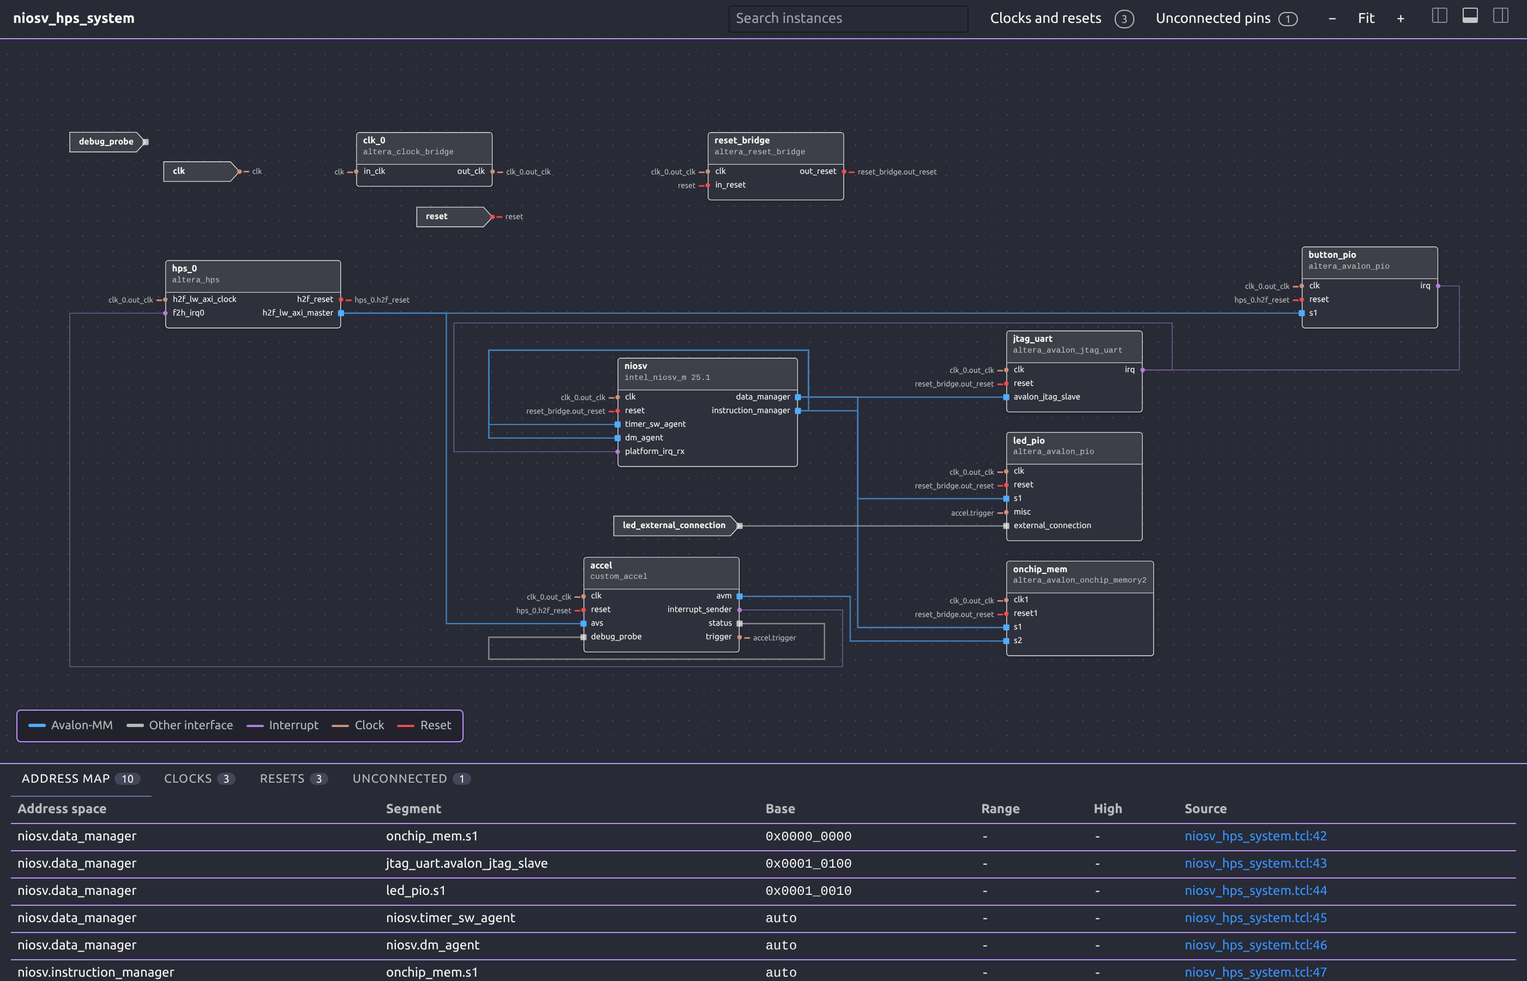
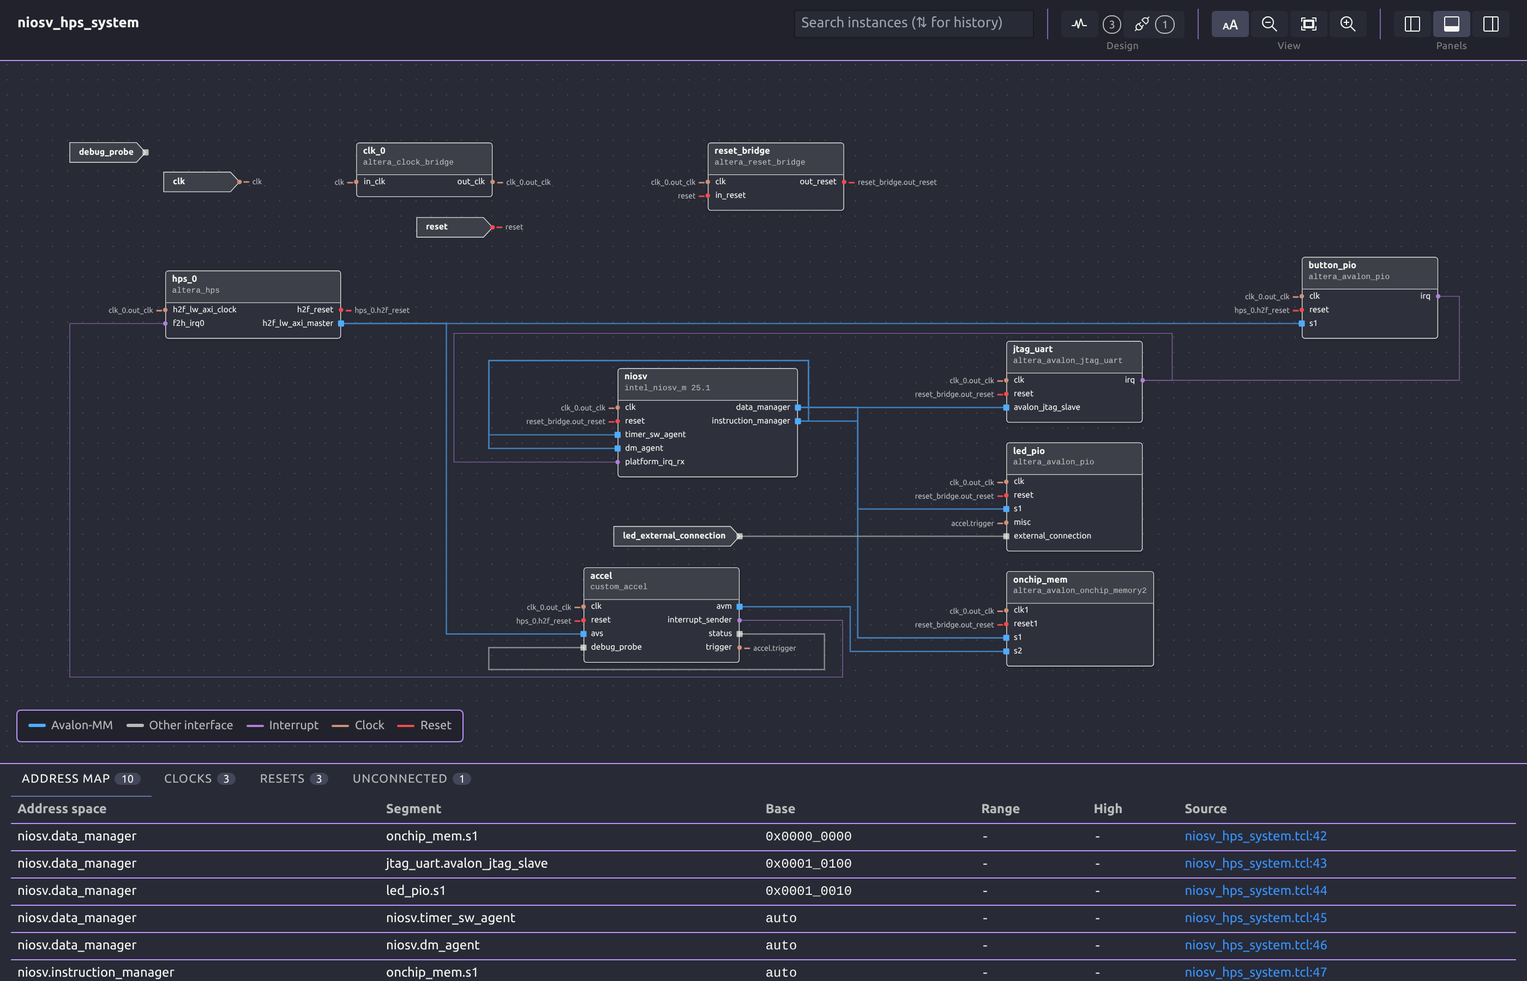
fix(system-viewer): address review nits on the toolbar and search history
- Search: the F3/Ctrl+F window listener is no longer re-attached on every
  render (stable step callback), and any query change not made by
  browsing ends browsing, so typing away and back no longer resumes the
  old history position. New tests cover F3 and Escape remembering,
  modifier arrows and preventDefault only when the query changes.
- Simplify zoomed out: names break after underscores (<wbr>) instead of
  mid-word, and port tag text and clock frequencies are hidden like the
  other small text.
- Toolbar: group captions are hidden from assistive technology (the
  group keeps its aria-label); the groups test covers Panels.
- Docs: system viewer screenshots regenerated with the new toolbar;
  architecture and changelog wording; toolbar, search history and
  full-width entries link #264.

diff --git a/src/test/suite/webview/systemDiagram/SystemDiagramApp.test.tsx b/src/test/suite/webview/systemDiagram/SystemDiagramApp.test.tsx
@@ -519,7 +519,7 @@ describe('SystemDiagramApp', () => {
     expect(toggle).not.toHaveClass('canvas-view-toggle--active');
   });
 
-  it('groups the toolbar buttons into Design and View', async () => {
+  it('groups the toolbar buttons into Design, View and Panels', async () => {
     await renderWithGraph();
     const view = within(screen.getByRole('group', { name: 'View' }));
     for (const name of ['Simplify zoomed out', 'Zoom out', 'Fit', 'Zoom in']) {
@@ -529,6 +529,10 @@ describe('SystemDiagramApp', () => {
     expect(design.getByRole('button', { name: 'Clocks and resets' })).toBeInTheDocument();
     expect(design.getByRole('button', { name: /^Unconnected pins/ })).toBeInTheDocument();
     expect(design.getByRole('button', { name: /^Open the Clocks tab: / })).toBeInTheDocument();
+    const panels = within(screen.getByRole('group', { name: 'Panels' }));
+    for (const name of ['Toggle Outline', 'Toggle Bottom Panel', 'Toggle Details']) {
+      expect(panels.getByRole('button', { name })).toBeInTheDocument();
+    }
   });
 
   it('posts revealSource from a line link', async () => {
@@ -793,6 +797,67 @@ describe('SystemDiagramApp', () => {
       searchBox().focus();
       press('ArrowUp');
       expect(searchBox().value).toBe('axi');
+    });
+
+    it('ends browsing when the query is typed away and back to the browsed text', async () => {
+      await renderWithGraph();
+      await settle();
+      type('axi');
+      press('Enter');
+      type('fifo');
+      press('Enter');
+      type('');
+      press('ArrowUp');
+      press('ArrowUp');
+      expect(searchBox().value).toBe('axi');
+      type('axix');
+      type('axi');
+      press('ArrowUp');
+      expect(searchBox().value).toBe('fifo');
+    });
+
+    it('remembers a query when stepping with F3', async () => {
+      await renderWithGraph();
+      await settle();
+      type('axi');
+      fireEvent.keyDown(window, { key: 'F3' });
+      type('');
+      searchBox().focus();
+      press('ArrowUp');
+      expect(searchBox().value).toBe('axi');
+    });
+
+    it('remembers the query that Escape clears', async () => {
+      await renderWithGraph();
+      await settle();
+      searchBox().focus();
+      type('axi');
+      press('Escape');
+      expect(searchBox().value).toBe('');
+      searchBox().focus();
+      press('ArrowUp');
+      expect(searchBox().value).toBe('axi');
+    });
+
+    it('does not browse on ArrowUp with a modifier', async () => {
+      await renderWithGraph();
+      await settle();
+      type('axi');
+      press('Enter');
+      type('');
+      fireEvent.keyDown(searchBox(), { key: 'ArrowUp', altKey: true });
+      expect(searchBox().value).toBe('');
+    });
+
+    it('prevents a browsing ArrowUp but not one at the oldest entry', async () => {
+      await renderWithGraph();
+      await settle();
+      type('axi');
+      press('Enter');
+      type('');
+      expect(fireEvent.keyDown(searchBox(), { key: 'ArrowUp' })).toBe(false);
+      expect(searchBox().value).toBe('axi');
+      expect(fireEvent.keyDown(searchBox(), { key: 'ArrowUp' })).toBe(true);
     });
 
     it('keeps the accessible name and shows the history placeholder', async () => {

diff --git a/src/webview/systemDiagram/WorkbenchLayout.tsx b/src/webview/systemDiagram/WorkbenchLayout.tsx
@@ -57,11 +57,14 @@ export function WorkbenchLayout({
   const view = useIsolation(graph, nav);
   const { isolation } = view;
   const search = useSearchStepper(graph, query, nav.selection, view.revealMatch);
-  const history = useSearchHistory(query, setQuery);
-  const stepSearch = (direction: 1 | -1) => {
-    history.remember();
-    search.step(direction);
-  };
+  const { remember, browse } = useSearchHistory(query, setQuery);
+  const stepSearch = useCallback(
+    (direction: 1 | -1) => {
+      remember();
+      search.step(direction);
+    },
+    [remember, search.step]
+  );
   const searchInputRef = useRef<HTMLInputElement>(null);
   useFindShortcuts({
     inputRef: searchInputRef,
@@ -163,8 +166,8 @@ export function WorkbenchLayout({
         onNavigate={nav.navigate}
         onQueryChange={setQuery}
         onSearchStep={stepSearch}
-        onSearchHistory={history.browse}
-        onSearchBlur={history.remember}
+        onSearchHistory={browse}
+        onSearchBlur={remember}
         onClocksChange={setClocksOn}
         onOpenClocksTab={() => openBottomTab('clocks')}
         onReviewUnconnectedChange={(on) => {

diff --git a/src/test/suite/webview/systemDiagram/NodeHeader.test.tsx b/src/test/suite/webview/systemDiagram/NodeHeader.test.tsx
@@ -1,0 +1,29 @@
+import React from 'react';
+import { render } from '@testing-library/react';
+import { nameParts, NodeHeader } from '../../../../webview/systemDiagram/NodeHeader';
+import type { SystemInstance } from '../../../../domain/systemGraph';
+
+describe('nameParts', () => {
+  it('ends each part after an underscore', () => {
+    expect(nameParts('pulse_gen_0')).toEqual(['pulse_', 'gen_', '0']);
+  });
+
+  it('keeps a name without underscores whole', () => {
+    expect(nameParts('fifo')).toEqual(['fifo']);
+  });
+});
+
+describe('NodeHeader name', () => {
+  it('keeps the text and offers a break after each underscore', () => {
+    const instance = {
+      name: 'pulse_gen_0',
+      path: '/pulse_gen_0',
+      kind: 'leaf',
+    } as unknown as SystemInstance;
+    const { container } = render(<NodeHeader instance={instance} cellCount={0} expanded={false} />);
+    const name = container.querySelector('.sd-node-name')!;
+    expect(name.textContent).toBe('pulse_gen_0');
+    expect(name).toHaveAttribute('title', 'pulse_gen_0');
+    expect(name.querySelectorAll('wbr')).toHaveLength(2);
+  });
+});

diff --git a/src/webview/systemDiagram/NodeHeader.tsx b/src/webview/systemDiagram/NodeHeader.tsx
@@ -5,6 +5,11 @@ import { HEADER_HEIGHT } from './layout/elkLayout';
 import { instanceSubtitle } from './model';
 import type { NodeReview } from './unconnectedPins';
 
+/** A name as text parts that each end after an underscore, to put a `<wbr />` after each. */
+export function nameParts(name: string): string[] {
+  return name.split(/(?<=_)/);
+}
+
 interface ExpandToggleProps {
   instance: SystemInstance;
   expanded: boolean;
@@ -70,7 +75,12 @@ export function NodeHeader({
           <ExpandToggle instance={instance} expanded={expanded} onToggleExpand={onToggleExpand} />
         )}
         <span className="sd-node-name" title={instance.name}>
-          {instance.name}
+          {nameParts(instance.name).map((part, index) => (
+            <React.Fragment key={index}>
+              {index > 0 && <wbr />}
+              {part}
+            </React.Fragment>
+          ))}
         </span>
         {review && review.all > 0 ? (
           <span

diff --git a/src/webview/systemDiagram/hooks/useSearchHistory.ts b/src/webview/systemDiagram/hooks/useSearchHistory.ts
@@ -1,4 +1,4 @@
-import { useCallback, useRef, useState } from 'react';
+import { useCallback, useEffect, useRef, useState } from 'react';
 import { browseHistory, rememberQuery, type HistoryCursor } from '../searchHistory';
 
 /**
@@ -14,6 +14,14 @@ export function useSearchHistory(
   const [history, setHistory] = useState<readonly string[]>([]);
   const cursor = useRef<HistoryCursor | null>(null);
   const lastSet = useRef<string | null>(null);
+
+  // Any change not made by browsing (typing, Ctrl+F, Escape) ends browsing.
+  useEffect(() => {
+    if (query !== lastSet.current) {
+      cursor.current = null;
+      lastSet.current = null;
+    }
+  }, [query]);
 
   const remember = useCallback(() => {
     setHistory((previous) => rememberQuery(previous, query));

diff --git a/src/webview/systemDiagram/systemDiagram.css b/src/webview/systemDiagram/systemDiagram.css
@@ -1018,6 +1018,8 @@ input:focus-visible {
 /* Auto detail: far out, pin text goes and block names grow. Drawing only, no layout.
    The block body is empty without pin labels, so a name wraps over it instead of being cut short. */
 [data-far='true'] .sd-pin-label,
+[data-far='true'] .sd-pin-freq,
+[data-far='true'] .sd-port-label,
 [data-far='true'] .sd-node-subtitle,
 [data-far='true'] .sd-badge-text {
   visibility: hidden;
@@ -1035,7 +1037,7 @@ input:focus-visible {
   overflow: visible;
   text-overflow: clip;
   white-space: normal;
-  overflow-wrap: anywhere;
+  overflow-wrap: break-word;
   font-size: calc(12px * var(--sd-name-scale, 1));
   line-height: 1.1;
 }

diff --git a/src/webview/systemDiagram/DiagramCanvas.tsx b/src/webview/systemDiagram/DiagramCanvas.tsx
@@ -7,10 +7,10 @@ import {
   type Node,
   type NodeTypes,
 } from '@xyflow/react';
+import { AutoDetail } from './AutoDetail';
 import { BoundaryNode } from './BoundaryNode';
 import { DiagramContextMenu, type ContextMenuItem } from './DiagramContextMenu';
 import { DiagramLegend } from './DiagramLegend';
-import { AutoDetail } from './AutoDetail';
 import { ElkEdge } from './ElkEdge';
 import { FrameNode } from './FrameNode';
 import { InstanceNode } from './InstanceNode';

diff --git a/src/webview/shared/components/Toolbar.tsx b/src/webview/shared/components/Toolbar.tsx
@@ -15,6 +15,7 @@ export const ToolbarGroup: React.FC<ToolbarGroupProps> = ({ label, children }) =
       {children}
     </div>
     <span
+      aria-hidden="true"
       style={{
         fontSize: '9px',
         opacity: 0.45,

diff --git a/docs/contributing/changelog.md b/docs/contributing/changelog.md
@@ -16,9 +16,9 @@ entry to the release notes.
 
 ### Added
 
-- **Auto detail in the system viewer.** With the Simplify zoomed out toolbar toggle on (the default), zooming out below 0.42 hides pin labels, block subtitles and badge text and enlarges block names by the inverse zoom, at most three times. It only changes what is drawn, so blocks never move. ([#256](https://github.com/bleviet/ipcraft-vscode/issues/256))
+- **Auto detail in the system viewer.** With the Simplify zoomed out toolbar toggle on (the default), zooming out below 0.42 hides pin labels, port labels, clock frequencies, block subtitles and badge text and enlarges block names by the inverse zoom, at most three times. It only changes what is drawn, so blocks never move. ([#256](https://github.com/bleviet/ipcraft-vscode/issues/256))
 - **Find keys in the system viewer.** As in the VS Code text editor, Ctrl+F (Cmd+F on macOS) goes to Search instances with its text selected, filled in with the name of the selected block, and F3 or Shift+F3 goes to the next or previous match.
-- **Search history in the system viewer.** Up and Down in Search instances browse the remembered queries, as in the VS Code find box (placeholder `Search instances (⇅ for history)`): a query is remembered when stepping (Enter, Shift+Enter, F3, Shift+F3) or on blur, deduplicated, at most 50, for the session. Pure rules in `searchHistory.ts`, state in `hooks/useSearchHistory.ts`. ([#256](https://github.com/bleviet/ipcraft-vscode/issues/256))
+- **Search history in the system viewer.** Up and Down in Search instances browse the remembered queries, as in the VS Code find box (placeholder `Search instances (⇅ for history)`): a query is remembered when stepping (Enter, Shift+Enter, F3, Shift+F3) or on blur, deduplicated, at most 50, for the session. Pure rules in `searchHistory.ts`, state in `hooks/useSearchHistory.ts`. ([#264](https://github.com/bleviet/ipcraft-vscode/pull/264))
 - **Mouse forward button in the system viewer.** After going up with the mouse back button, the mouse forward button returns to the levels you left, one at a time. Going to another level any other way clears them, as in a browser.
 - **Clock and reset domains in the system viewer.** The Clocks and resets toggle colors the clock and reset pins by clock domain, shows the clock frequencies set in the design, and marks clock and reset domain crossings (CDC and RDC). Selecting a clock or reset net shows its whole tree in Details. New Clocks and Resets tabs list the domains, reset sources and crossings of the level on screen; clicking a row zooms to it. Clocks are identified from known AMD IP outputs and declared pin directions, never from pin names, and what cannot be determined is listed as not checked. Known outputs of common AMD IPs are now drawn on the right of their block. ([#243](https://github.com/bleviet/ipcraft-vscode/issues/243), [#248](https://github.com/bleviet/ipcraft-vscode/pull/248), [#252](https://github.com/bleviet/ipcraft-vscode/pull/252))
 - **Expand a hierarchy block in place in the system viewer.** The + button in the header of a hierarchy block (or right-click, Expand In-Place) shows its contents in a frame on the current level; the - button or Collapse folds it again. Double-click still opens the block. ([#244](https://github.com/bleviet/ipcraft-vscode/issues/244), [#247](https://github.com/bleviet/ipcraft-vscode/pull/247))
@@ -27,7 +27,7 @@ entry to the release notes.
 
 ### Changed
 
-- **System viewer toolbar in the IP core editor style.** `ToolbarGroup` and `ToolbarSeparator` move from `IpCoreToolbar.tsx` to `src/webview/shared/components/Toolbar.tsx`, where a group now has `role="group"` and its label as accessible name, and the `.canvas-view-toggle` button styles move from the IP core `canvas.css` to `shared/components/toolbar.css`. The system viewer toolbar uses them for icon-only Design (Clocks and resets `pulse`, Unconnected pins `debug-disconnect`), View (Simplify zoomed out `text-size`, `zoom-out`, Fit `screen-full`, `zoom-in`) and Panels groups; accessible names are unchanged. ([#256](https://github.com/bleviet/ipcraft-vscode/issues/256))
+- **System viewer toolbar in the IP core editor style.** `ToolbarGroup` and `ToolbarSeparator` move from `IpCoreToolbar.tsx` to `src/webview/shared/components/Toolbar.tsx`, where a group now has `role="group"` and its label as accessible name, and the `.canvas-view-toggle` button styles move from the IP core `canvas.css` to `shared/components/toolbar.css`. The system viewer toolbar uses them for icon-only Design (Clocks and resets `pulse`, Unconnected pins `debug-disconnect`), View (Simplify zoomed out `text-size`, `zoom-out`, Fit `screen-full`, `zoom-in`) and Panels groups; accessible names are unchanged. ([#264](https://github.com/bleviet/ipcraft-vscode/pull/264))
 - **Shorter wires in the system viewer.** Blocks are placed by their data and interface connections, external ports sit next to a block they connect to, and clock and reset nets are shown as net-name badges on their pins instead of wires; large designs lay out much faster. ([#261](https://github.com/bleviet/ipcraft-vscode/issues/261))
 - **Blocks stand out from the canvas in the system viewer.** Blocks have a darker outline, a tinted body and header, and a light shadow; wires are thinner and softer until selected or highlighted, and the grid dots are fainter. ([#261](https://github.com/bleviet/ipcraft-vscode/issues/261))
 - **Clocks and resets is a toggle button in the system viewer.** It colors the clock and reset pins by clock domain, and a count chip next to it opens the Clocks tab. ([#258](https://github.com/bleviet/ipcraft-vscode/issues/258), [#259](https://github.com/bleviet/ipcraft-vscode/pull/259))
@@ -37,7 +37,7 @@ entry to the release notes.
 
 ### Fixed
 
-- **The system viewer fills the editor.** `systemDiagram.css` now resets the body padding that VS Code's default webview stylesheet adds (20px each side), as `src/webview/index.css` already does for the other editors, so the toolbar and canvas reach both edges. ([#256](https://github.com/bleviet/ipcraft-vscode/issues/256))
+- **The system viewer fills the editor.** `systemDiagram.css` now resets the body padding that VS Code's default webview stylesheet adds (20px each side), as `src/webview/index.css` already does for the other editors, so the toolbar and canvas reach both edges. ([#264](https://github.com/bleviet/ipcraft-vscode/pull/264))
 - **Blocks no longer move in the system viewer** when Clocks and resets or Unconnected pins is turned on or off; the zoom and pan stay too. ([#255](https://github.com/bleviet/ipcraft-vscode/issues/255), [#257](https://github.com/bleviet/ipcraft-vscode/pull/257))
 
 ## [1.4.0] - 2026-11-06

diff --git a/docs/architecture/webview.md b/docs/architecture/webview.md
@@ -147,10 +147,10 @@ host (`graph`, `notRecognized`, or `error` messages) and sends only `ready`,
 | Layer | Owner |
 |---|---|
 | Composition root | `SystemDiagramApp.tsx`, `DiagramWorkbench.tsx`, `WorkbenchLayout.tsx` wire the toolbar, outline, canvas, details, and bottom panels |
-| Pure layout and geometry | `layout/` (elkjs graph construction, `placementEdges.ts` for which nets place the blocks, node sizing, net badges, bounds, viewport policy, hover placement, panel sizes; `expandedLayout.ts` for hierarchy blocks expanded in place) and `expansion.ts` (which levels, nodes, and selections an expansion shows), and `searchHistory.ts` (the remembered search queries and Up/Down browsing) |
+| Pure layout and geometry | `layout/` (elkjs graph construction, `placementEdges.ts` for which nets place the blocks, node sizing, net badges, bounds, viewport policy, hover placement, panel sizes; `expandedLayout.ts` for hierarchy blocks expanded in place) and `expansion.ts` (which levels, nodes, and selections an expansion shows) |
 | Clock and reset analysis | `clocks/`, pure and computed once per graph by `analyzeClocks`: `clockTypes.ts` (the result types), `frequency.ts` (parse and format), `unionFind.ts` and `levelPaths.ts` (small shared helpers), `physicalNets.ts` (nets joined across hierarchy pins, and the driver of each), `clockRules.ts` (declarative clock output, frequency, forwarding, generator, and reset rules; which Vivado IP pins are outputs is the shared `src/domain/knownIpPins.ts`, which the Vivado reader also uses to give those pins the direction `out` with source `rule`), `clockDomains.ts`, `relatedClocks.ts` (clocks of one generator), `pinClocks.ts`, `resetSources.ts`, `crossings.ts`, and the helpers each surface reads: `crossingSummary.ts` (counts and toolbar text), `crossingEdges.ts`, `domainView.ts`, `treeSelection.ts`, `edgeView.ts`, `nodeView.ts` (wire styles, pin marks, node strips), `netTree.ts` and `treeChecks.ts` (the tree rows and checks of Details), `instanceClocks.ts`, `crossingRows.ts` (the texts of its crossing rows), `viewScope.ts` (which domains, resets and crossings the Clocks and Resets tabs list for the level and expanded blocks on screen). `clockDecor.ts` merges them into one description of what the canvas adds to a layout |
-| Hooks | `hooks/` (host messages, ELK layout, per-level viewport, navigation with the expanded blocks, pin hover, panel resize; `useSearchHistory.ts` holds the search history) |
-| Components | the node, edge, panel, and table components in `src/webview/systemDiagram/`; `FrameNode.tsx` draws a hierarchy block expanded in place; `ClocksTable.tsx` and `ResetsTable.tsx` are the Clocks and Resets tabs, both listing crossings through `CrossingsTable.tsx`, `ClockTreeDetails.tsx` the clock and reset tree in Details, `InstanceClockDetails.tsx` the clocks of a block or port, `AutoDetail.tsx` is a child of the React Flow canvas that sets the far-zoom detail (thresholds in `layout/zoomDetail.ts`), and `DiagramToolbar.tsx` groups its icon buttons with the shared `ToolbarGroup` and `ToolbarSeparator` (`src/webview/shared/components/Toolbar.tsx`) |
+| Hooks | `hooks/` (host messages, ELK layout, per-level viewport, navigation with the expanded blocks, pin hover, panel resize; `useSearchHistory.ts` for the search box history, whose pure rules are in `searchHistory.ts` beside `search.ts`) |
+| Components | the node, edge, panel, and table components in `src/webview/systemDiagram/`; `FrameNode.tsx` draws a hierarchy block expanded in place; `ClocksTable.tsx` and `ResetsTable.tsx` are the Clocks and Resets tabs, both listing crossings through `CrossingsTable.tsx`, `ClockTreeDetails.tsx` the clock and reset tree in Details, `InstanceClockDetails.tsx` the clocks of a block or port, `AutoDetail.tsx` a child of the React Flow canvas that sets the far-zoom detail (thresholds in `layout/zoomDetail.ts`), and `DiagramToolbar.tsx` groups its icon buttons with the shared `ToolbarGroup` and `ToolbarSeparator` (`src/webview/shared/components/Toolbar.tsx`) |
 
 `messageState.ts` keeps the last valid graph when a later message reports an
 error or says the file is no longer recognized, so the workbench and the
@@ -174,7 +174,12 @@ each data wire, with the edges of any category between a selected block and a
 kept block (of which the layout draws the data wires and keeps the clock and
 reset edges that `placementEdges` selects).
 
-Auto detail is not a layout input. `AutoDetail.tsx` (inside `<ReactFlow>`) sets `data-far` on the canvas container from a boolean store selector, so it re-renders only when the zoom crosses `FAR_ZOOM` (`layout/zoomDetail.ts`), and keeps `--sd-name-scale` in step through an imperative store subscription; `systemDiagram.css` hides pin text and scales block names under `[data-far='true']`.
+Auto detail is not a layout input. `AutoDetail.tsx` (inside `<ReactFlow>`)
+sets `data-far` on the canvas container from a boolean store selector, so it
+re-renders only when the zoom crosses `FAR_ZOOM` (`layout/zoomDetail.ts`), and
+keeps `--sd-name-scale` in step through an imperative store subscription;
+`systemDiagram.css` hides pin text and scales block names under
+`[data-far='true']`.
 
 ## Updates and drafts
 

diff --git a/CHANGELOG.md b/CHANGELOG.md
@@ -10,7 +10,7 @@ is in [docs/contributing/changelog.md](docs/contributing/changelog.md).
 
 ### New
 
-- **Readable when zoomed out.** Far out, the system viewer hides pin names and enlarges block names so you can still tell the blocks apart. Turn off **Simplify zoomed out** in the toolbar to show everything at every zoom.
+- **Readable when zoomed out.** Far out, the system viewer hides pin and port names and other small text, and enlarges block names so you can still tell the blocks apart. Turn off **Simplify zoomed out** in the toolbar to show everything at every zoom.
 - **Expand a hierarchy block in place in the system viewer.** Click + in the block header, or right-click and choose Expand In-Place, to show its contents inside a frame on the current level. Click - or choose Collapse to fold it again. Double-clicking still opens the block.
 - **Highlight parts of a design.** Ctrl+Click (Cmd+Click on macOS) selects several blocks, ports and wires; right-click and choose Highlight to mark them in one of six colors. Highlights are remembered per design file, and a toolbar chip counts them and clears them all.
 - **Find unconnected pins.** Turn on Unconnected pins to mark pins that nothing connects to: inputs that nothing drives in the warning color, unused outputs muted. The Unconnected tab lists them; clicking a pin zooms in to its block. Only blocks whose pins are known (from an `.ip.yml`, an HDL file, a hierarchy or an external port) are checked.

diff --git a/docs/how-to/view-a-system-design.md b/docs/how-to/view-a-system-design.md
@@ -326,7 +326,7 @@ listed in either tab.
 - Double-click a block (other than a hierarchy block) or a port to zoom to it.
 - Double-click empty canvas to fit the level.
 - Each level remembers its own zoom and position while the diagram is open.
-- **Simplify zoomed out**, on by default, hides pin names, block subtitles and badge text when you zoom out below about 42%, and enlarges the block names so that they stay readable. It only changes what is drawn: blocks never move. Turn it off to show everything at every zoom.
+- **Simplify zoomed out**, on by default, hides pin and port names, block subtitles, clock frequencies and badge text when you zoom out below about 42%, and enlarges the block names so that they stay readable. It only changes what is drawn: blocks never move. Turn it off to show everything at every zoom.
 
 ## Names and hover
 
